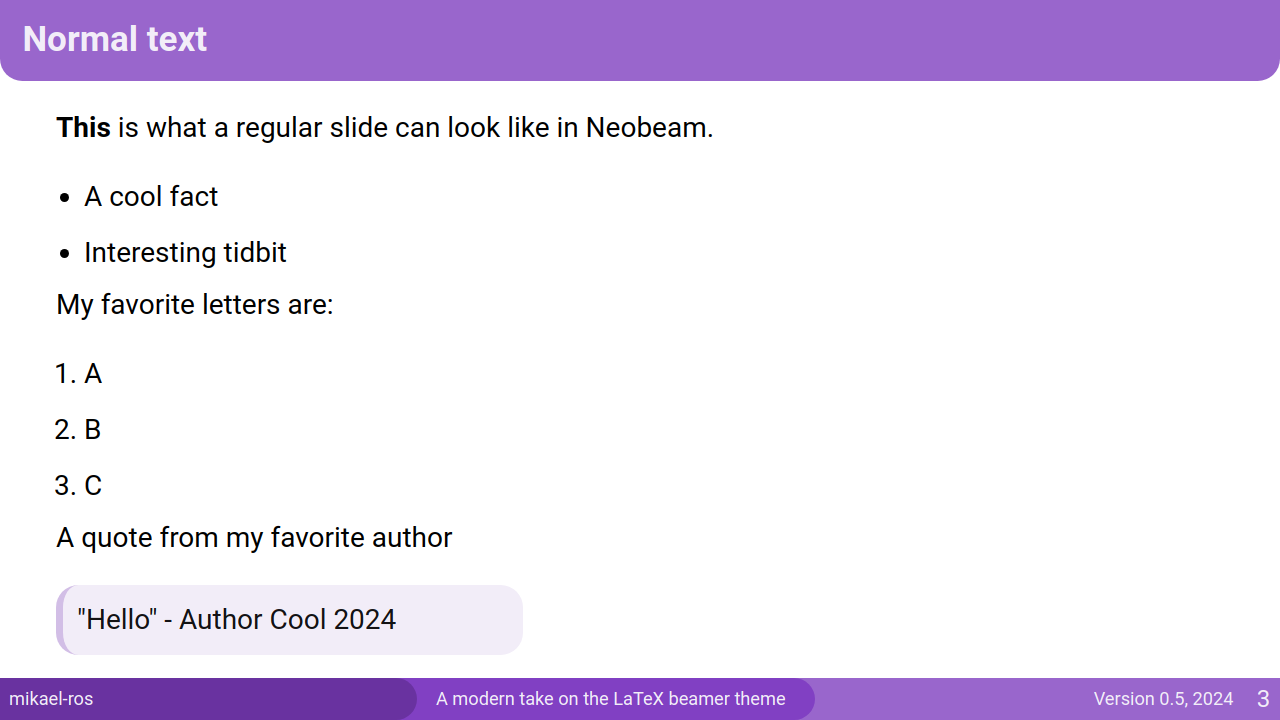
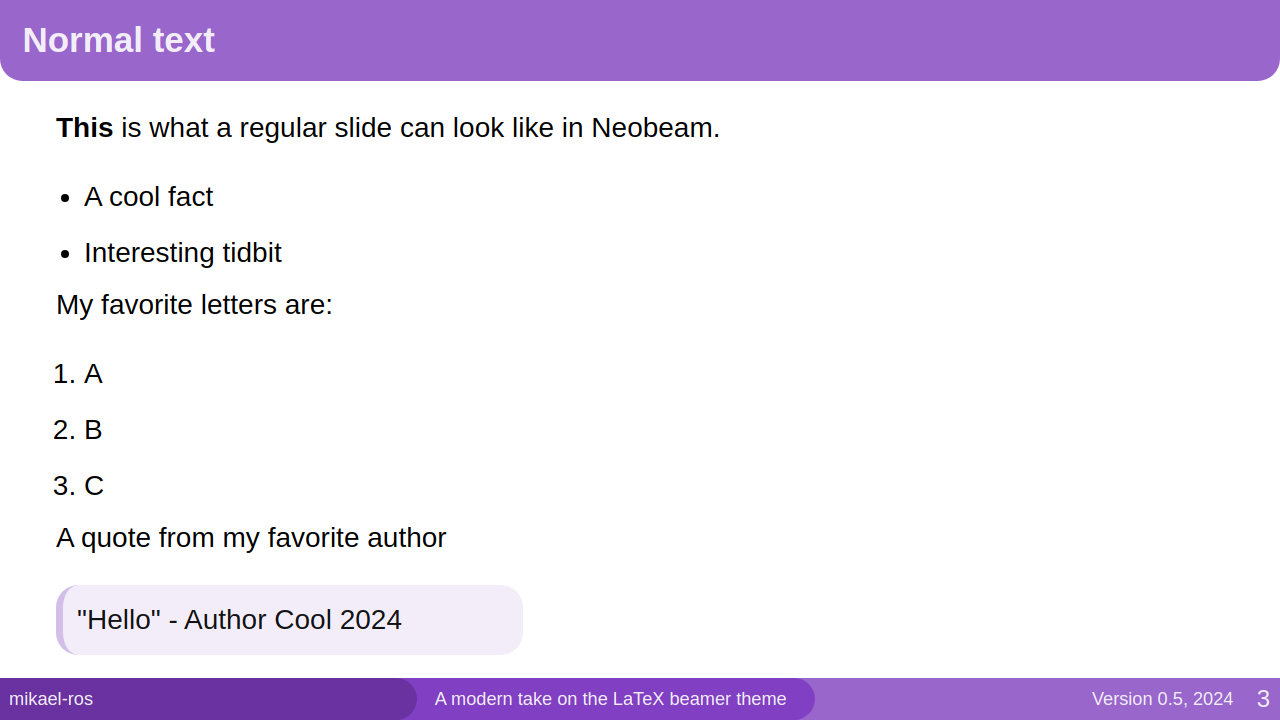
Changed fonts for csek and dsek

diff --git a/css/neobeam-csek.css b/css/neobeam-csek.css
@@ -66,7 +66,7 @@
 
     --background-color: var(--text-color-negative-lighter);
 
-    --default-font: "Roboto";
+    --default-font: "Helvetica";
     --monospace-font: "Roboto Mono";
     --math-font: "Noto Sans Math";
 

diff --git a/css/neobeam-dsek.css b/css/neobeam-dsek.css
@@ -67,7 +67,7 @@
 
     --background-color: var(--text-color-negative-lighter);
 
-    --default-font: "Roboto";
+    --default-font: "Helvetica";
     --monospace-font: "Roboto Mono";
     --math-font: "Noto Sans Math";
 
